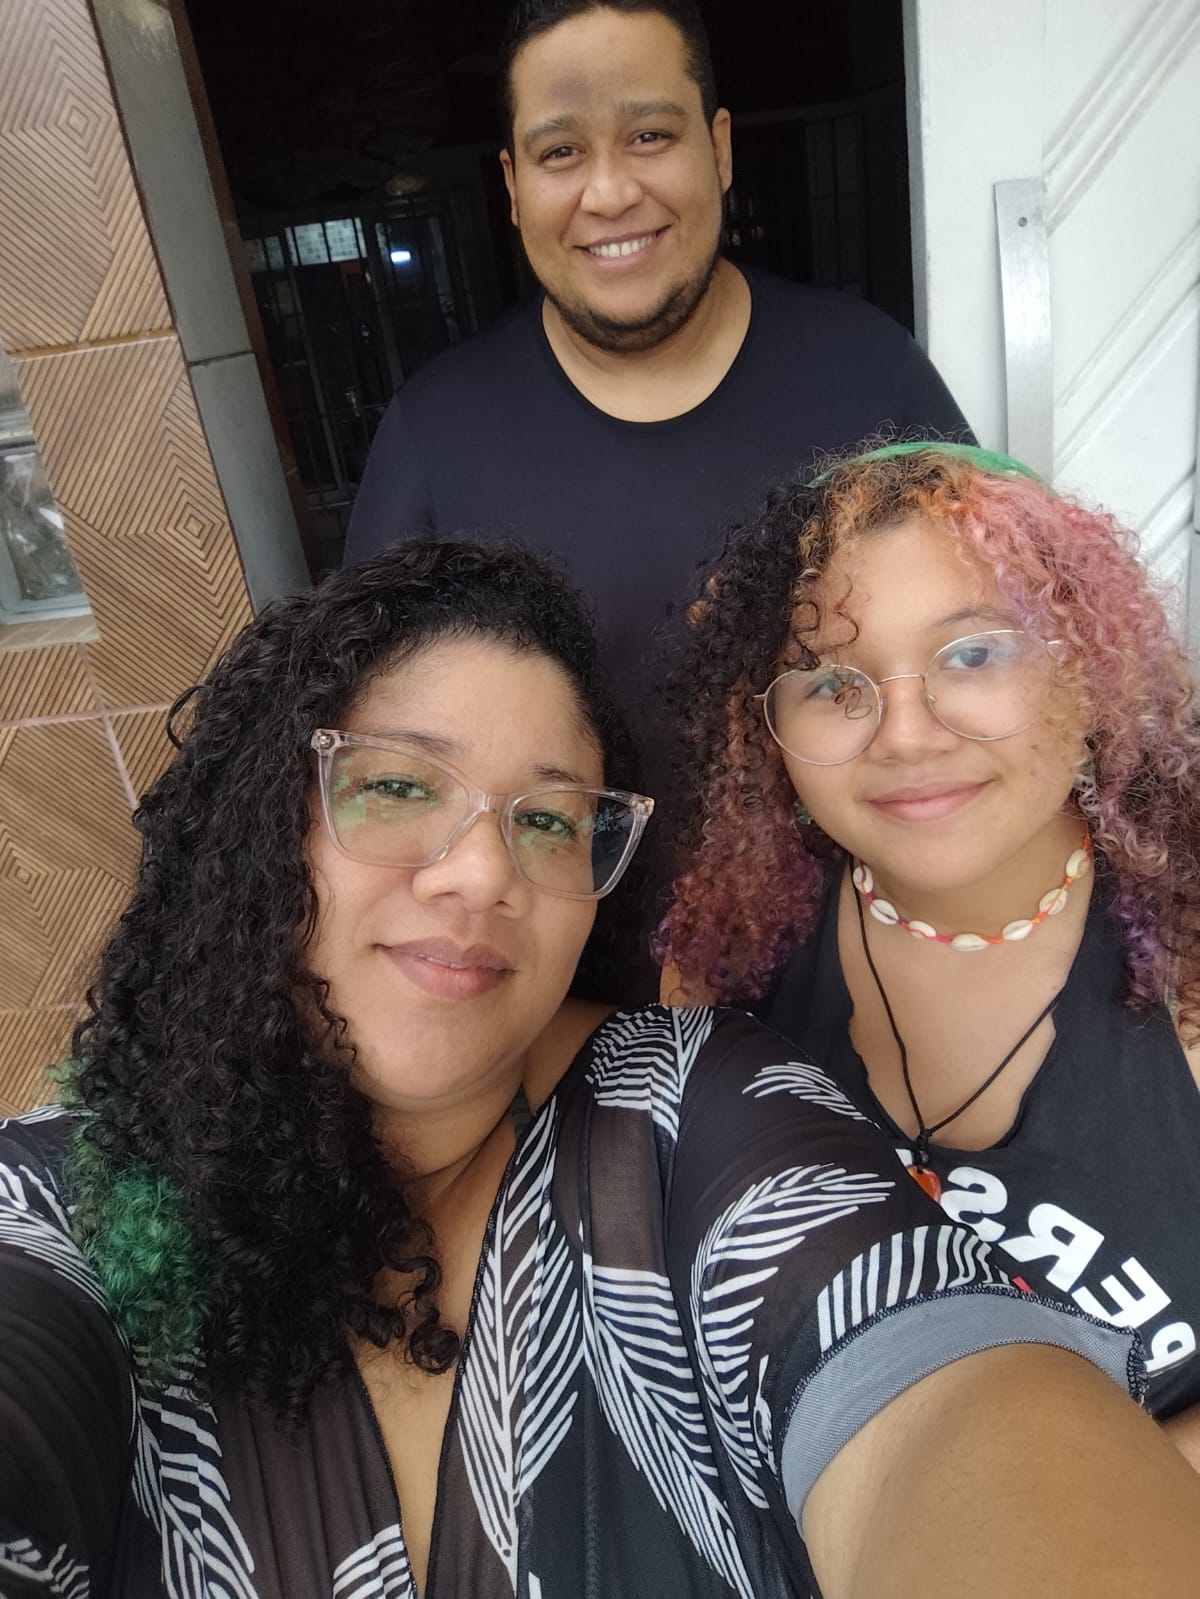
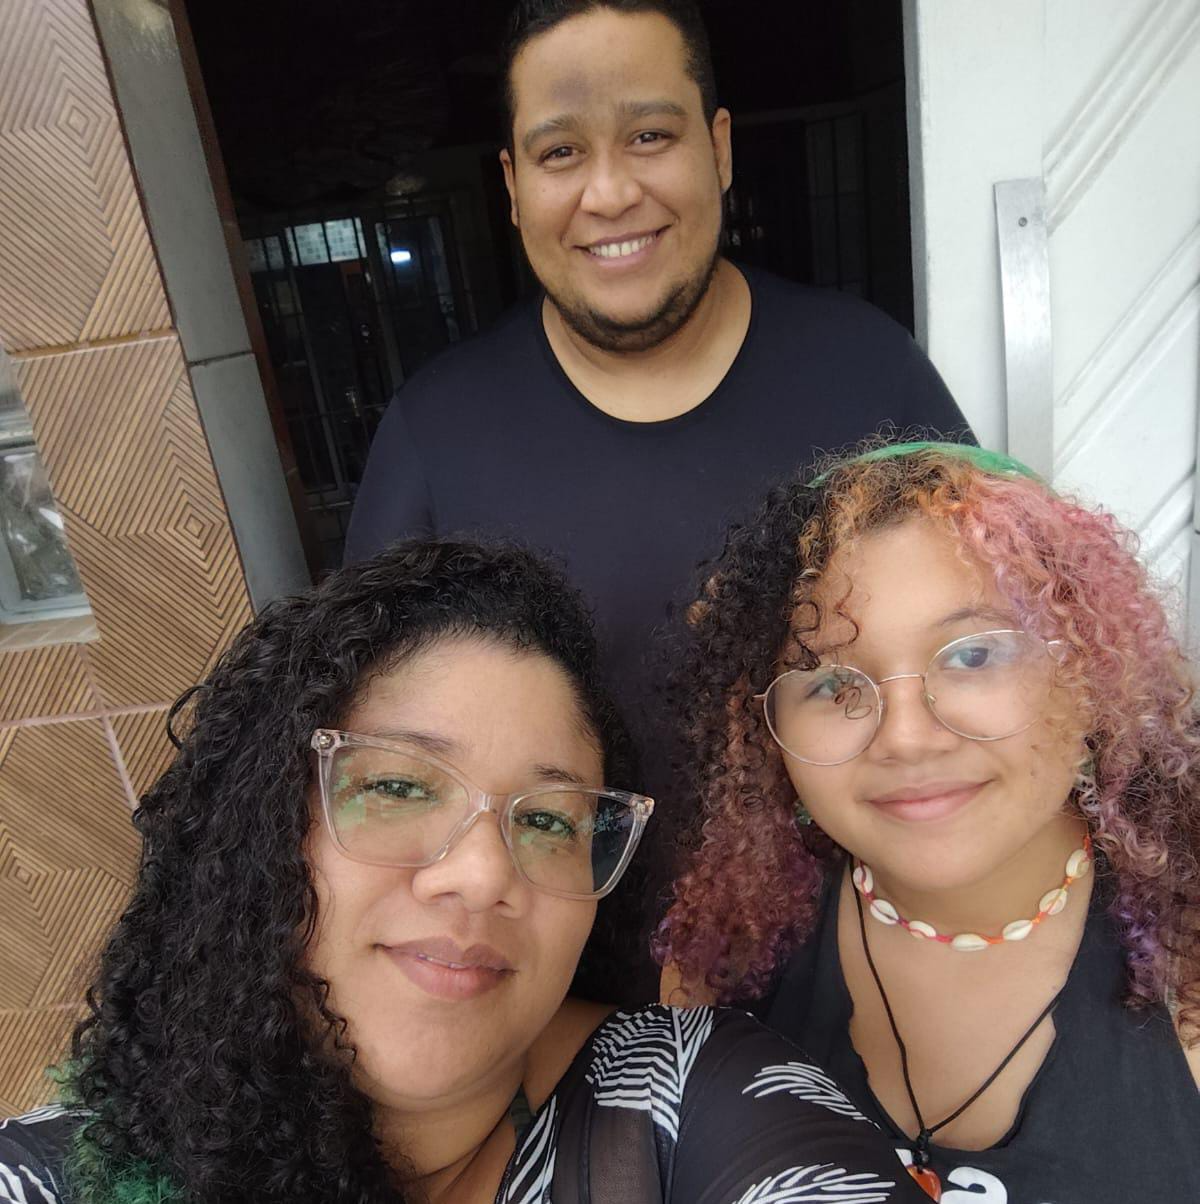
Novo commit atualização

diff --git a/script.js b/script.js
@@ -121,17 +121,16 @@ const paginas = [
 
         conteudo: `
             <p class="mensagem">
-                Oii emy, bom n sou muito
-                Boa nas palavras ksksk
+                Oii emy, antes de td queria te desejar um Feliz aniversário, que está data possa se repetir por muitos e muitos anos✨❤
 
-                Gatinha, feliz aniversário que o papai do céu te abençoe muito nesse seu dia, que vc continue sendo essa menino incrível que vc é❤
+Bom, se conhecemos desde 2024, e ficamos estranhamente próximas depois de um passeio pro sesc skksk n esqueço ate hj, acho que depois daquele dia nós tornamos muito próximas, e sinceramente?
+N me arrependo disso.
 
-                Saiba que independente de qualquer situação, vc sempre será minha irmãzona e q n me arrependo de nada ate agr.
+Por mais que tenhamos opniões diferentes, jeitos de pensar diferente, as vezes com uma briguinha ou outra, porém quero que saiba q gosto muito de vc, vc é minha irmãzona ❤✨ e independente disso, nada muda.
 
-                Vc foi a mlhr pessoa que eu pude conhecer em 2024, e sinceramente, foi o mlhr ano da minha vida por causa da sua amizade ❤
+Adoro todos os nossos momentos juntas, mesmo que eu n consiga demostrar isso, pra mim é complicado demostrar afeto, mais tentei mostrar um lado meu para vc… que realmente ninguém nunca viu, e eu quero muito que nossa amizade possa deixar de ser algo so de escola, e ser algo para a vida tda🥹❤✨
 
-                Obrigada por ser vc , obrigada por simplesmente existir maninha, te amoooo ❤❤❤
-            </p>
+Te amo maninha, e td de bom para vcc✨✨✨
 
             <div class="video-area">
 
